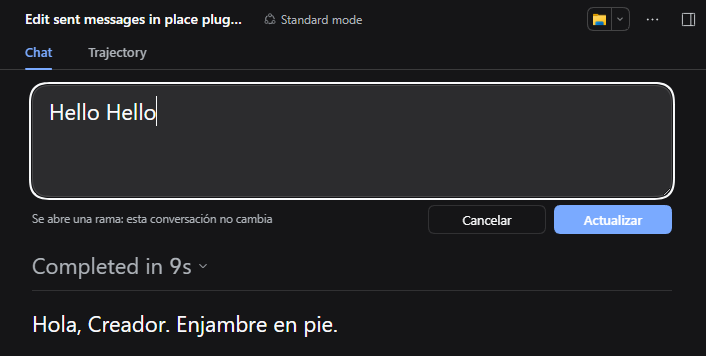
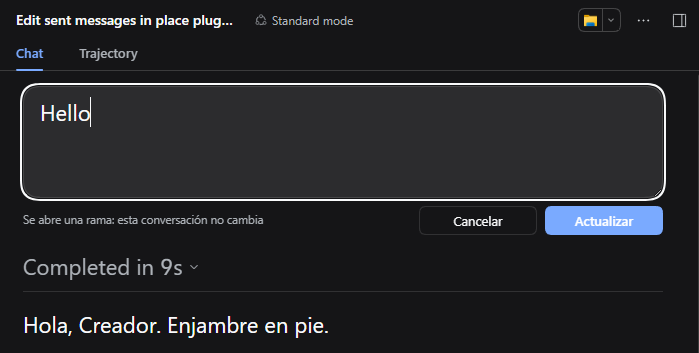
Use the text box shot, swap the pair, and strip every PNG chunk
- `docs/editing.png` is now the shot with the box open, and it comes first; the
  closed message with its pencil follows.
- Both screenshots carry only IHDR, IDAT and IEND. The colour profile, the gamma
  and the physical-resolution chunk are gone, so nothing about the machine that
  took them travels with the file.
- `tools/limpia-imagenes.mjs` does that, and `--list` reports without touching. It
  also says so plainly when a file is read-only, which is what a screenshot copied
  out of the attachments folder is.

Verified after stripping: both files still decode (695x365 and 699x353), and their
chunk list is header, pixels, end — nothing else.

41 checks pass and the privacy audit is still clean.

diff --git a/README.md b/README.md
@@ -5,13 +5,15 @@ conversation stays exactly as it was.
 
 A plugin for [DeepSeek Harness](https://github.com/deepseek-ai/deepseek-harness).
 
-![A message of your own, with its pencil next to the clock and the copy button](docs/message.png)
+![The message turned into a text box in its own place, with Cancel and Update below](docs/editing.png)
 
-![The same message, editable in place: Cancel and Update below, and the branch note](docs/editing.png)
+![The same message once closed, with its pencil next to the clock and the copy button](docs/message.png)
 
 *The interface in those screenshots is in Spanish because the machine that took them
 is set to Spanish. The same build shows English to an English reader, and the
-repository itself is English.*
+repository itself is English. Both files carry no metadata at all: only the header,
+the pixels and the end marker survive, so nothing about the machine that took them
+travels with them (`node tools/limpia-imagenes.mjs --list docs/*.png` shows it).*
 
 ## What it does
 
